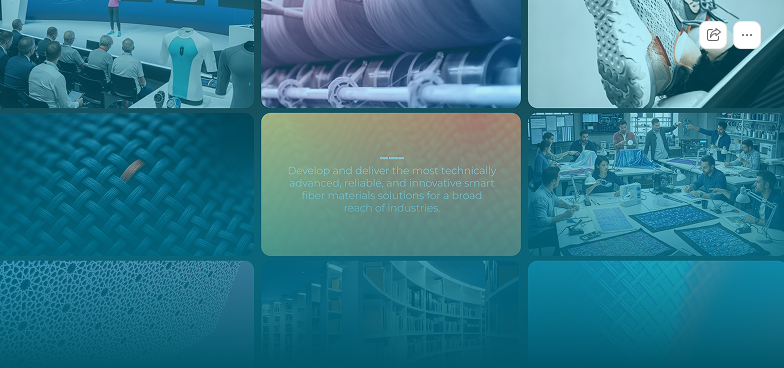
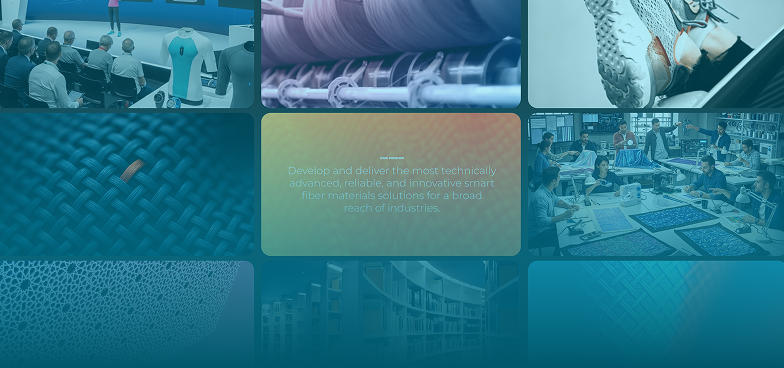
Re-add action buttons with updated background image
The original background image had the buttons baked in, causing
duplication. Now using updated background image without buttons
and re-implementing action buttons as HTML elements:

- Share button (top right)
- More options button (top right)
- Light gray background (#f5f5f5) with border
- Hover states with darker gray

Changed region(s): [[0.8878, 0.0598, 0.9796, 0.1495]]

diff --git a/src/components/Layout.tsx b/src/components/Layout.tsx
@@ -6,6 +6,8 @@ import {
 } from '@heroicons/react/24/outline';
 import {
   Play16Filled,
+  Share16Regular,
+  MoreHorizontal16Regular,
 } from '@fluentui/react-icons';
 import ChatInput from './ChatInput';
 import LeftNav from './LeftNav';
@@ -145,6 +147,16 @@ export default function Layout() {
                 <div className="flex-1 h-1 bg-white/30 rounded-[2px]" />
                 <div className="flex-1 h-1 bg-white/30 rounded-[2px]" />
                 <div className="flex-1 h-1 bg-white/30 rounded-[2px]" />
+              </div>
+
+              {/* Action Buttons */}
+              <div className="absolute top-5 right-5 flex gap-1.5">
+                <button className="w-7 h-7 flex items-center justify-center bg-[#f5f5f5] border border-[#ebebeb] rounded-lg hover:bg-[#e6e6e6] transition-colors">
+                  <Share16Regular className="text-[#424242]" />
+                </button>
+                <button className="w-7 h-7 flex items-center justify-center bg-[#f5f5f5] border border-[#ebebeb] rounded-lg hover:bg-[#e6e6e6] transition-colors">
+                  <MoreHorizontal16Regular className="text-[#424242]" />
+                </button>
               </div>
             </div>
 
